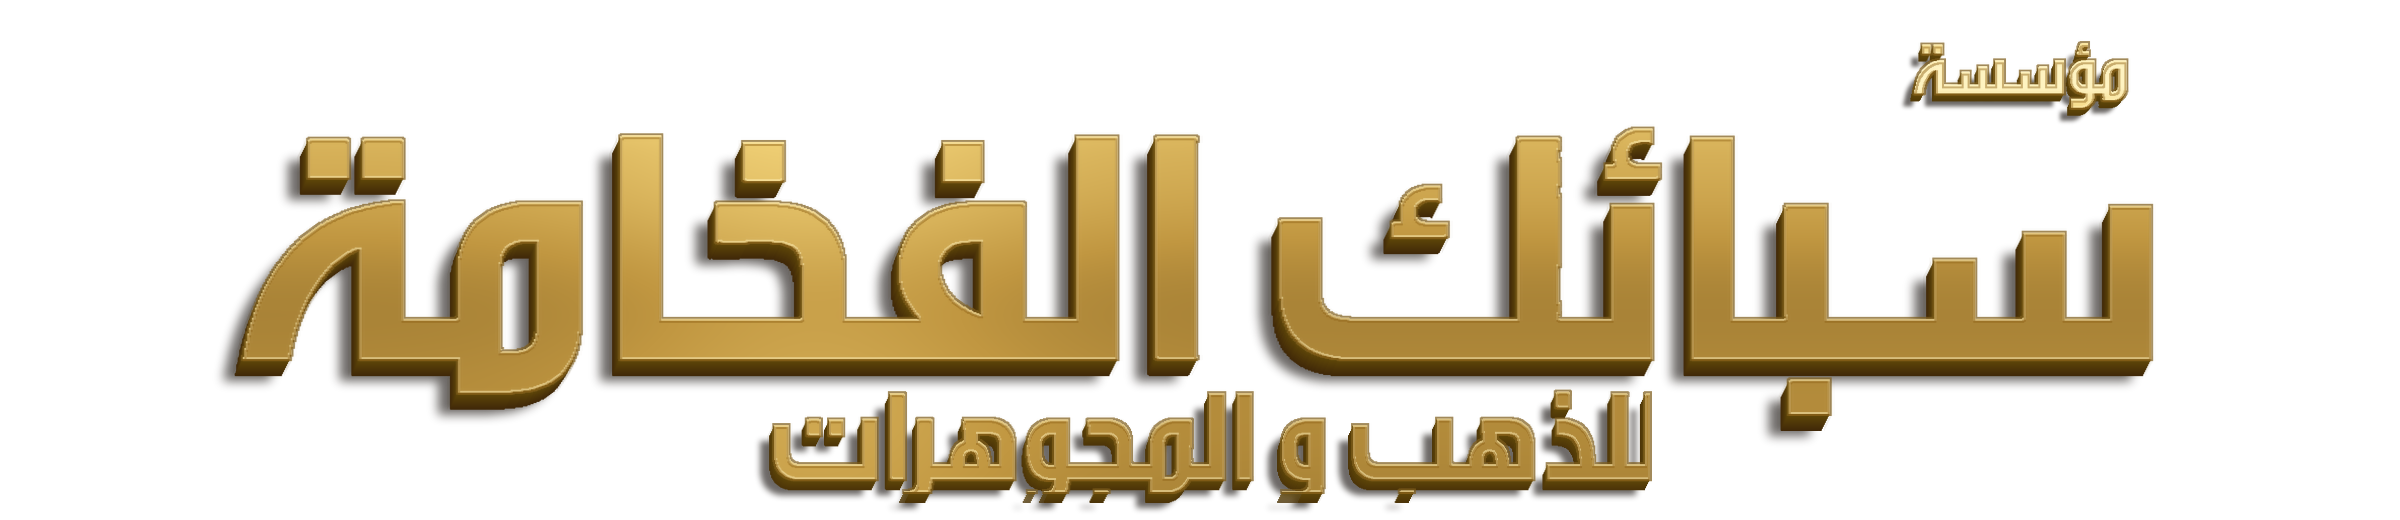
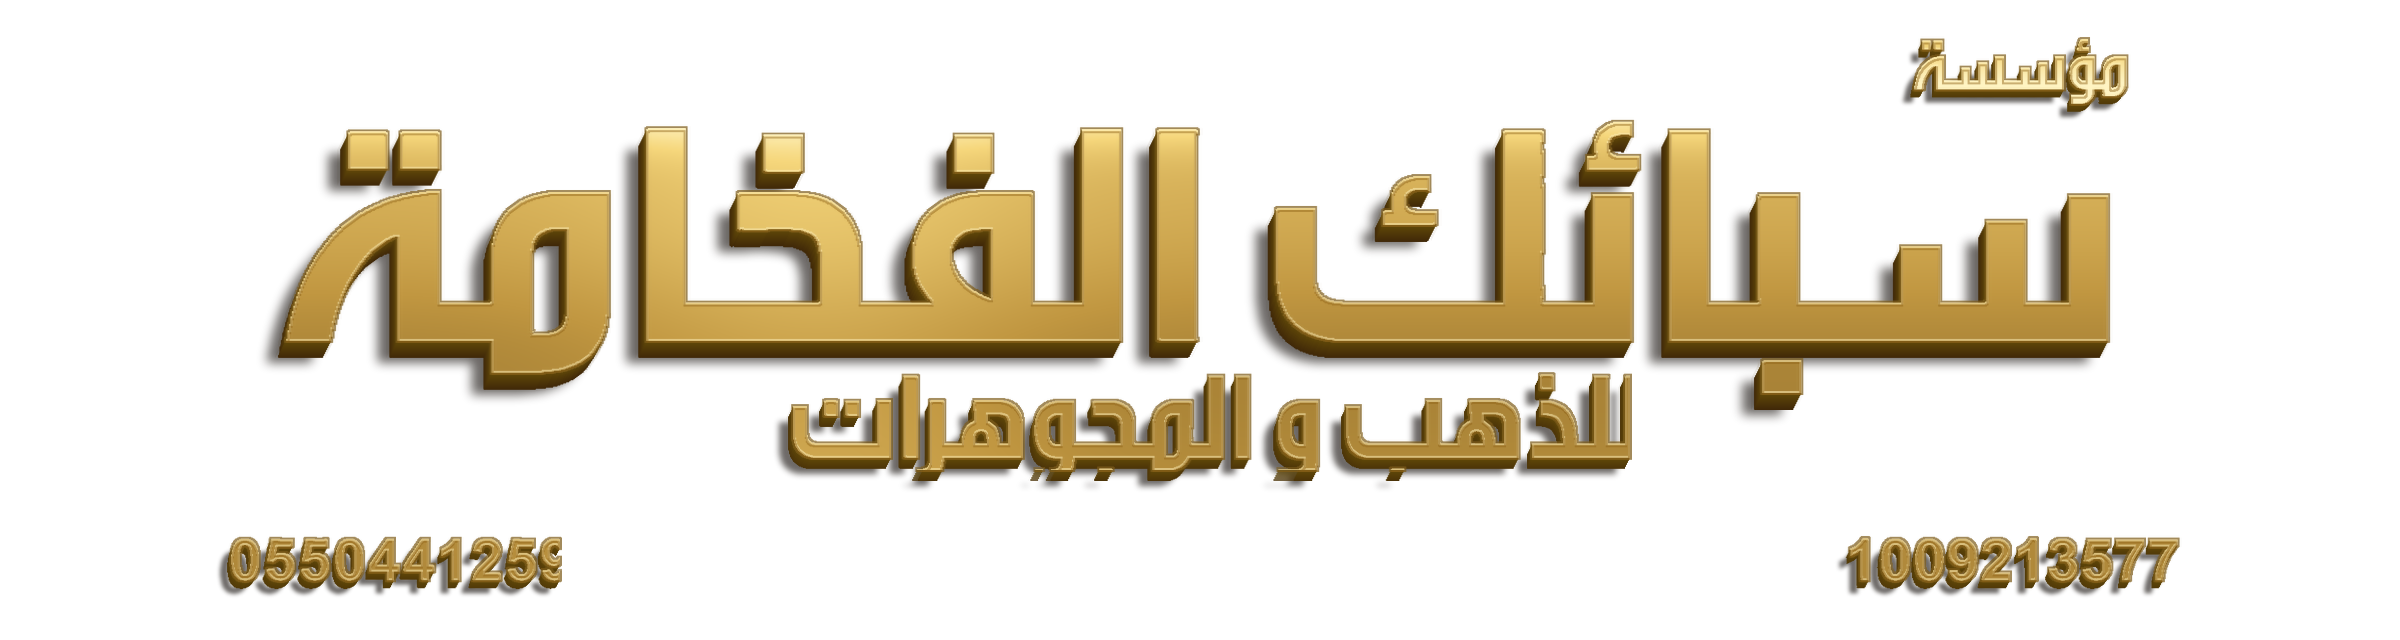
feat: show complete storefront details in header

diff --git a/index.html b/index.html
@@ -11,13 +11,13 @@
   <style>
     :root{--bg:#071312;--surface:#0d1d1a;--surface-2:#102722;--line:rgba(218,182,83,.25);--gold:#d6ad4e;--gold-soft:#f4d98b;--gold-muted:#947539;--text:#f6f1e5;--muted:#aab5ac;--green:#65d993;--red:#ed887b;--neutral:#d6ad4e;--shadow:0 24px 65px rgba(0,0,0,.32)}
     *{box-sizing:border-box}html{background:var(--bg);scroll-behavior:smooth}body{margin:0;min-width:320px;min-height:100vh;background:radial-gradient(ellipse at 13% -10%,#174332 0,transparent 34rem),radial-gradient(ellipse at 96% 0,#1f3828 0,transparent 32rem),var(--bg);color:var(--text);font-family:system-ui,-apple-system,BlinkMacSystemFont,"Segoe UI","Noto Sans Arabic",Tahoma,Arial,sans-serif;font-feature-settings:"tnum" 1,"lnum" 1}button,a{font:inherit}button:focus-visible,a:focus-visible{outline:2px solid var(--gold-soft);outline-offset:3px}.page{max-width:1380px;margin:auto;padding:28px 22px 46px}.shell{overflow:hidden;border:1px solid rgba(223,191,98,.33);border-radius:28px;background:linear-gradient(145deg,rgba(15,35,31,.96),rgba(5,15,14,.98));box-shadow:var(--shadow),inset 0 1px rgba(255,244,190,.07)}
-    .topbar{position:relative;min-height:198px;display:grid;place-items:center;padding:10px 28px;border-bottom:1px solid var(--line);background:radial-gradient(ellipse at 50% 35%,rgba(45,93,74,.18),transparent 58%),linear-gradient(90deg,rgba(7,18,16,.76),rgba(12,32,28,.74))}.brand{position:relative;display:flex;align-items:center;justify-content:center;width:100%;min-width:0}.brand-sign{display:block;width:min(100%,820px);height:auto;max-height:178px;object-fit:contain;filter:drop-shadow(0 10px 15px rgba(0,0,0,.62)) drop-shadow(0 0 13px rgba(214,173,78,.13))}.sr-only{position:absolute;width:1px;height:1px;padding:0;margin:-1px;overflow:hidden;clip:rect(0,0,0,0);white-space:nowrap;border:0}.connection{flex:0 0 auto;display:flex;align-items:center;gap:8px;border:1px solid rgba(101,217,147,.25);border-radius:999px;padding:8px 12px;color:#d8f7df;background:rgba(13,61,40,.34);font-size:12px}.connection .dot{width:8px;height:8px;border-radius:50%;background:var(--green);box-shadow:0 0 10px var(--green)}.connection.cached{color:#ffebb5;border-color:rgba(214,173,78,.4);background:rgba(88,65,16,.28)}.connection.cached .dot{background:var(--neutral);box-shadow:0 0 10px var(--neutral)}.connection.error{color:#ffd1c9;border-color:rgba(237,136,123,.42);background:rgba(85,23,19,.27)}.connection.error .dot{background:var(--red);box-shadow:0 0 10px var(--red)}
+    .topbar{position:relative;min-height:238px;display:grid;place-items:center;padding:10px 28px;border-bottom:1px solid var(--line);background:radial-gradient(ellipse at 50% 35%,rgba(45,93,74,.18),transparent 58%),linear-gradient(90deg,rgba(7,18,16,.76),rgba(12,32,28,.74))}.brand{position:relative;display:flex;align-items:center;justify-content:center;width:100%;min-width:0}.brand-sign{display:block;width:min(100%,820px);height:auto;max-height:218px;object-fit:contain;filter:drop-shadow(0 10px 15px rgba(0,0,0,.62)) drop-shadow(0 0 13px rgba(214,173,78,.13))}.sr-only{position:absolute;width:1px;height:1px;padding:0;margin:-1px;overflow:hidden;clip:rect(0,0,0,0);white-space:nowrap;border:0}.connection{flex:0 0 auto;display:flex;align-items:center;gap:8px;border:1px solid rgba(101,217,147,.25);border-radius:999px;padding:8px 12px;color:#d8f7df;background:rgba(13,61,40,.34);font-size:12px}.connection .dot{width:8px;height:8px;border-radius:50%;background:var(--green);box-shadow:0 0 10px var(--green)}.connection.cached{color:#ffebb5;border-color:rgba(214,173,78,.4);background:rgba(88,65,16,.28)}.connection.cached .dot{background:var(--neutral);box-shadow:0 0 10px var(--neutral)}.connection.error{color:#ffd1c9;border-color:rgba(237,136,123,.42);background:rgba(85,23,19,.27)}.connection.error .dot{background:var(--red);box-shadow:0 0 10px var(--red)}
     .dashboard{display:grid;grid-template-columns:minmax(400px,.9fr) minmax(520px,1.1fr);gap:20px;padding:22px}.summary{display:flex;flex-direction:column;gap:14px}.quote,.chart-panel,.karat,.meta-bar{border:1px solid var(--line);border-radius:20px;background:linear-gradient(145deg,rgba(17,41,35,.91),rgba(8,23,21,.82));box-shadow:inset 0 1px rgba(255,240,181,.04)}.quote{min-height:236px;display:flex;flex-direction:column;align-items:center;justify-content:center;text-align:center;padding:24px;position:relative;overflow:hidden}.quote:before{content:"";position:absolute;width:76%;height:76%;border:1px solid rgba(214,173,78,.12);border-radius:50%;transform:rotate(-7deg)}.quote>*{position:relative}.eyebrow{margin:0 0 10px;font-size:15px;color:#e5ddcb}.quote-value{display:flex;align-items:baseline;justify-content:center;gap:8px;direction:ltr;font:700 clamp(46px,5vw,70px)/1 Georgia,"Times New Roman",serif;color:var(--gold-soft);font-variant-numeric:tabular-nums;text-shadow:0 0 26px rgba(214,173,78,.12)}.quote-value small{font:700 22px system-ui;color:var(--gold)}.quote-value em{font:700 11px system-ui;color:var(--gold);font-style:normal;letter-spacing:1.5px}.quote-change{min-height:22px;display:inline-flex;align-items:center;gap:6px;margin-top:10px;padding:4px 9px;border-radius:999px;font-size:12px;font-weight:750;direction:ltr}.quote-change[hidden]{display:none}.quote-change.positive{color:var(--green);background:rgba(31,109,65,.2)}.quote-change.negative{color:var(--red);background:rgba(134,46,37,.18)}.quote-change.neutral{color:#d7d5cd;background:rgba(214,173,78,.08)}.change-context{font-size:10px;color:var(--muted);font-weight:500;direction:rtl}.ornament{width:min(315px,90%);height:14px;display:flex;gap:12px;align-items:center;margin:16px 0 9px}.ornament:before,.ornament:after{content:"";height:1px;flex:1;background:linear-gradient(90deg,transparent,var(--gold),transparent)}.ornament span{width:7px;height:7px;background:var(--gold);transform:rotate(45deg)}.quote-sub{font-size:12px;color:var(--muted)}.quote>.quote-connection{position:absolute;top:16px;left:16px;z-index:2}.quote>.quote-connection .dot{width:7px;height:7px}
     .karats{display:grid;grid-template-columns:repeat(3,1fr);gap:10px}.karat{min-height:147px;padding:15px 14px;position:relative;overflow:hidden}.karat.featured{background:linear-gradient(135deg,#efd181,#be8d39);color:#172019;border-color:#f5d98e}.karat.featured:after{content:"";position:absolute;width:110px;height:110px;border:1px solid rgba(71,47,5,.14);border-radius:50%;bottom:-56px;left:-43px}.karat-head{display:flex;align-items:center;justify-content:space-between;gap:5px;padding-bottom:11px;border-bottom:1px solid currentColor}.karat-title{font-weight:800;font-size:15px}.karat-fineness{font-size:10px;opacity:.76}.karat-code{direction:ltr;border:1px solid rgba(214,173,78,.42);border-radius:7px;padding:3px 6px;font-size:10px;font-weight:800;color:var(--gold)}.featured .karat-code{color:#50390d;border-color:rgba(80,57,13,.3)}.karat-price{display:flex;direction:ltr;align-items:baseline;gap:5px;margin-top:14px;font-size:clamp(24px,2.6vw,32px);font-weight:800;font-variant-numeric:tabular-nums}.riyal{width:14px;height:17px;color:currentColor}.karat-unit{margin-top:7px;font-size:10px;color:var(--muted)}.featured .karat-unit{color:#5b4b23}
     .meta-bar{display:flex;align-items:center;justify-content:space-between;gap:12px;padding:11px 12px}.meta-copy{font-size:11px;color:var(--muted);line-height:1.65}.buttons{display:flex;gap:8px}.button{min-height:44px;border-radius:10px;padding:10px 15px;border:1px solid transparent;font-weight:800;cursor:pointer;transition:filter .15s ease,transform .15s ease,opacity .15s ease}.button:hover{filter:brightness(1.08)}.button:active{transform:scale(.98)}.button:disabled{cursor:wait;opacity:.7}.refresh{color:#1c180d;background:linear-gradient(135deg,#f2d788,#bc8934)}.share{color:#f9f1e0;border-color:rgba(214,173,78,.42);background:transparent}.toast{min-height:22px;text-align:center;color:var(--muted);font-size:11px;padding:0 20px 9px}
     .chart-panel{min-height:445px;padding:22px;position:relative}.chart-head{display:flex;justify-content:space-between;gap:15px;align-items:flex-start;border-bottom:1px solid var(--line);padding-bottom:15px}.chart-head h1{margin:0;font-size:23px}.chart-head p{margin:7px 0 0;color:var(--muted);font-size:12px}.range-label{border:1px solid var(--line);border-radius:8px;padding:7px 10px;font-size:11px;color:var(--gold)}.chart-stats{display:grid;grid-template-columns:repeat(2,1fr);gap:12px;margin:15px 0}.stat{border-inline-start:2px solid var(--line);padding-inline-start:10px}.stat span{display:block;font-size:11px;color:var(--muted)}.stat strong{display:block;direction:ltr;text-align:right;margin-top:4px;font-size:18px;font-variant-numeric:tabular-nums}.high strong{color:#c8efd8}.low strong{color:#ffd0c8}.chart-wrap{height:270px;position:relative;overflow:hidden;border-radius:14px;background:linear-gradient(180deg,rgba(214,173,78,.035),transparent);touch-action:pan-y}.chart-grid{position:absolute;inset:0;background-image:linear-gradient(rgba(214,173,78,.075) 1px,transparent 1px);background-size:100% 33.333%}.chart-empty{position:absolute;inset:0;display:grid;place-items:center;text-align:center;padding:30px;color:var(--muted);font-size:13px}.chart-wrap svg{position:absolute;inset:0;width:100%;height:100%;overflow:visible}.line{fill:none;stroke:var(--gold);stroke-width:1.35;vector-effect:non-scaling-stroke;stroke-linecap:round;stroke-linejoin:round;filter:drop-shadow(0 0 3px rgba(214,173,78,.24))}.area{fill:url(#fill);opacity:.24}.point{fill:var(--gold-soft);stroke:#163029;stroke-width:2;vector-effect:non-scaling-stroke}.tooltip{position:absolute;display:none;pointer-events:none;direction:ltr;white-space:pre-line;background:#071311;border:1px solid rgba(244,217,139,.8);color:var(--gold-soft);border-radius:8px;padding:7px 9px;font-size:11px;font-variant-numeric:tabular-nums;line-height:1.55;transform:translate(-50%,-120%);z-index:3;box-shadow:0 8px 24px rgba(0,0,0,.25)}.axis{display:flex;justify-content:space-between;direction:ltr;color:#8e9b92;font-size:10px;padding-top:9px}.chart-note{padding-top:10px;color:var(--muted);font-size:11px}.business-panel{display:flex;align-items:center;justify-content:space-between;gap:18px;margin:0 22px 12px;padding:15px 17px;border:1px solid rgba(218,182,83,.28);border-radius:16px;background:linear-gradient(135deg,rgba(21,46,38,.86),rgba(10,28,24,.86));box-shadow:inset 0 1px rgba(255,240,181,.04)}.business-copy{display:flex;align-items:center;gap:10px;min-width:0;flex-wrap:wrap}.business-kicker{color:var(--gold-soft);font-size:14px;font-weight:850}.business-register{padding-inline-start:10px;border-inline-start:1px solid var(--line);color:var(--muted);font-size:11px}.business-register bdi{color:#e6ddc8;font-weight:750}.business-contact{display:inline-flex;align-items:center;justify-content:center;gap:9px;flex:0 0 auto;min-height:40px;padding:9px 13px;border:1px solid rgba(214,173,78,.46);border-radius:10px;color:#1b190f;background:linear-gradient(135deg,#f0d582,#bd8c38);font-size:12px;font-weight:850;text-decoration:none;transition:filter .15s ease,transform .15s ease}.business-contact:hover{filter:brightness(1.08)}.business-contact:active{transform:scale(.98)}.business-contact bdi{font-size:13px;letter-spacing:.04em}.business-contact-stack{display:grid;justify-items:center;gap:6px;flex:0 0 auto}.business-address{display:inline-flex;align-items:center;gap:6px;color:#cec8b8;font-size:11px}.business-address:before{width:6px;height:6px;border:1px solid var(--gold);border-radius:50%;content:"";box-shadow:0 0 7px rgba(214,173,78,.5)}.footer{display:flex;justify-content:center;gap:12px;flex-wrap:wrap;padding:0 24px 22px;font-size:12px}.designer,.site-link{color:var(--gold);font-weight:700;text-decoration:none}.designer:hover,.site-link:hover{text-decoration:underline}.footer-separator{color:var(--line)}
     @media(max-width:760px){.page{padding:0}.shell{border-radius:0;border-inline:0;min-height:100vh}.topbar{min-height:94px;padding:7px 14px;gap:10px}.brand{gap:8px}.brand-logo{width:154px;max-height:80px}.brand-address{font-size:12px;white-space:normal}.connection{padding:6px 8px;font-size:10px}.dashboard{display:flex;flex-direction:column;padding:12px;gap:12px}.summary{gap:10px}.quote{min-height:150px;padding:14px}.eyebrow{font-size:13px;margin-bottom:6px}.quote-value{font-size:43px}.quote-value small{font-size:18px}.quote-value em{font-size:9px}.quote-change{margin-top:6px;font-size:10px}.ornament{margin:9px 0 5px;height:9px}.quote-sub{font-size:10px}.karats{gap:7px}.karat{min-height:128px;padding:11px 9px;border-radius:14px}.karat-title{font-size:13px}.karat-fineness{font-size:9px}.karat-code{font-size:9px;padding:3px 5px}.karat-price{margin-top:13px;font-size:24px}.karat-unit{font-size:9px;margin-top:5px}.meta-bar{padding:9px;align-items:stretch;flex-direction:column;gap:8px}.meta-copy{font-size:10px}.buttons{width:100%}.button{flex:1;padding:10px 7px}.chart-panel{min-height:358px;padding:15px;border-radius:16px}.chart-head h1{font-size:18px}.chart-head p{font-size:10px}.chart-stats{margin:12px 0}.chart-wrap{height:195px}.business-panel{align-items:stretch;flex-direction:column;gap:10px;margin:0 12px 10px;padding:12px}.business-copy{align-items:baseline;gap:7px}.business-kicker{font-size:13px}.business-copy strong{font-size:12px}.business-register{padding-inline-start:7px;font-size:10px}.business-contact{width:100%;min-height:38px;font-size:11px}.business-contact bdi{font-size:12px}.footer{padding:3px 15px 18px;font-size:11px}.toast{font-size:10px}.chart-panel{order:2}.summary{order:1}}
-    @media(max-width:760px){.topbar{min-height:112px;padding:8px 14px}.brand-sign{width:100%;max-height:96px}.quote>.quote-connection{top:10px;left:10px;padding:5px 8px;font-size:10px}.business-panel{align-items:stretch}.business-copy{justify-content:center}.business-contact-stack{width:100%}.business-address{font-size:10px}.business-contact{width:100%}}
+    @media(max-width:760px){.topbar{min-height:148px;padding:8px 14px}.brand-sign{width:100%;max-height:130px}.quote>.quote-connection{top:10px;left:10px;padding:5px 8px;font-size:10px}.business-panel{align-items:stretch}.business-copy{justify-content:center}.business-contact-stack{width:100%}.business-address{font-size:10px}.business-contact{width:100%}}
     .karat-price span[aria-label="ريال سعودي"]{display:inline-block;width:15px;height:18px;font-size:0;background:url("assets/saudi-riyal.svg") center/contain no-repeat}.featured .karat-price span[aria-label="ريال سعودي"]{filter:brightness(.35) saturate(1.3)}
     @media(prefers-reduced-motion:reduce){*,*:before,*:after{scroll-behavior:auto!important;transition:none!important}}
   </style>
